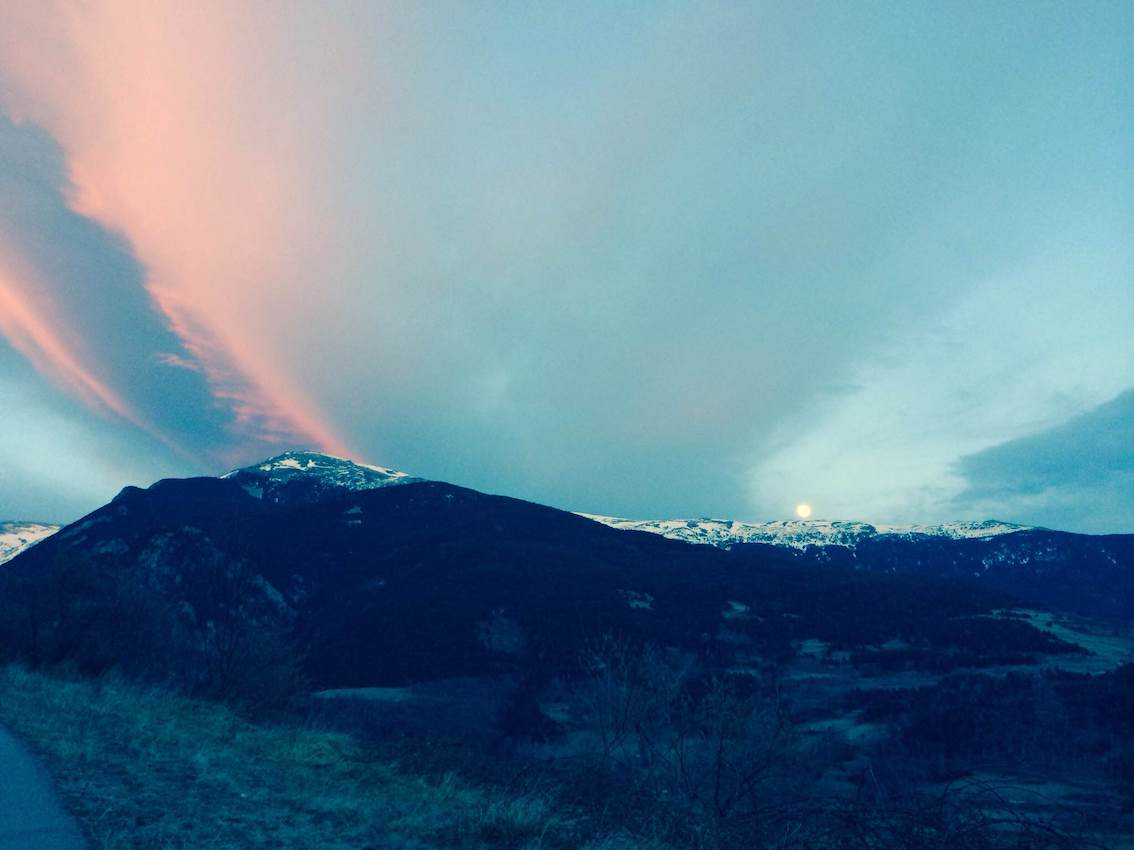
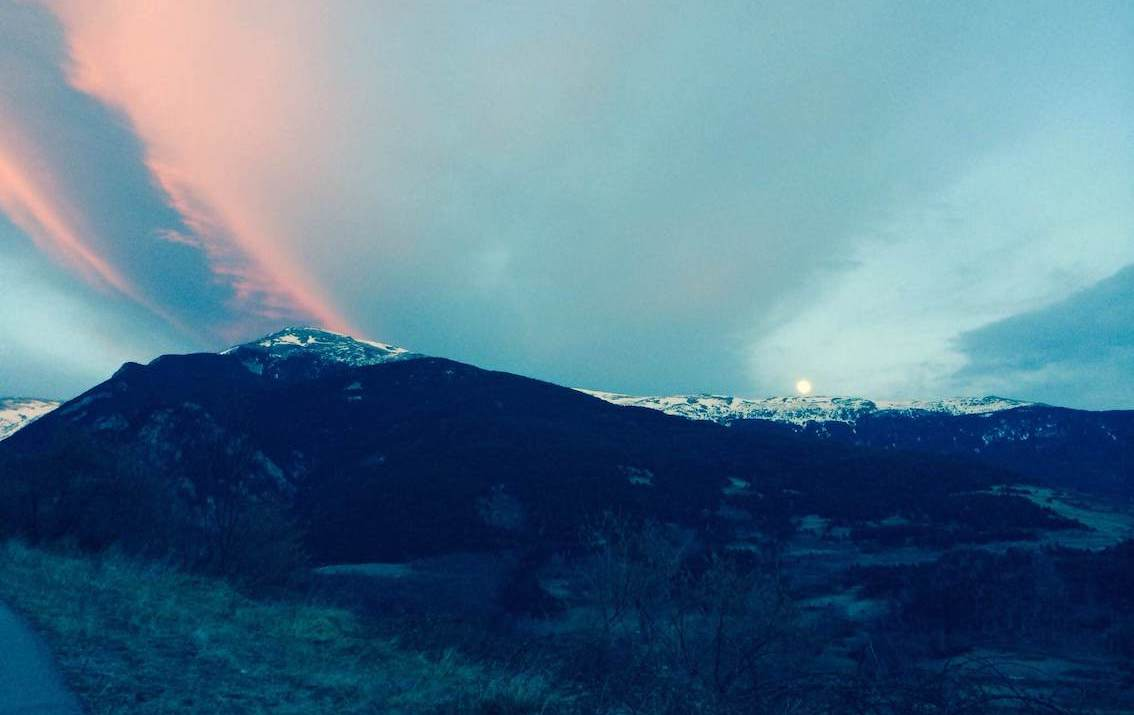
Experiment with index background image above

diff --git a/css/style.css b/css/style.css
@@ -1,7 +1,8 @@
 /* CSS goes here! */
 
 body {
-  font-family:'Lucida Sans', 'Lucida Sans Regular', 'Lucida Grande', 'Lucida Sans Unicode', Geneva, Verdana, sans-serif;
+  font-family: "Poppins", sans-serif;
+  font-weight: 300;
 }
 
 .main-article {
@@ -10,24 +11,26 @@ body {
   padding: 40px;
 }
 
+/* Mobile screen */
 .main-article-index {
   max-width: 1000px;
   min-height: 750px;
   margin: 0 auto;
   padding: 40px;
-  background-image: url("../images/mountain-mobile.jpg");
+  /* background-image: url("../images/mountain-mobile.jpg");
   background-repeat: no-repeat;
-  background-size: cover;
+  background-size: cover; */
 }
 
+/* Computer screen */
 @media only screen and (min-width: 450px) {
   .main-article-index {
     max-width: 1000px;
     min-height: 750px;
     margin: 0 auto;
     padding: 40px;
-    background-image: url("../images/mountain.jpg");
-    background-repeat: no-repeat;
+    /* background-image: url("../images/mountain.jpg");
+    background-repeat: no-repeat; */
   }
 }
 
@@ -47,6 +50,18 @@ ul.menu {
 li.menu-item {
   display: inline-block;
   padding-right: 10px;
+}
+
+.background-image {
+  height: 300px;
+  overflow: hidden;
+}
+
+.background-image img {
+  width: 100%;
+  height: 100%;
+  object-fit: cover;
+  object-position: center;
 }
 
 .gallery {

diff --git a/index.html b/index.html
@@ -47,6 +47,7 @@
         <li class="menu-item"><a href="./pages/appointments.html">Appointments, Fees, Location etc.</a></li>
       </ul>
     </header>
+    <div class="background-image"><img src="./images/mountain.jpg" alt="Mountain picture"></div> 
     <div class="main-article-index">
       <h3>About Me</h3>
       <p>
